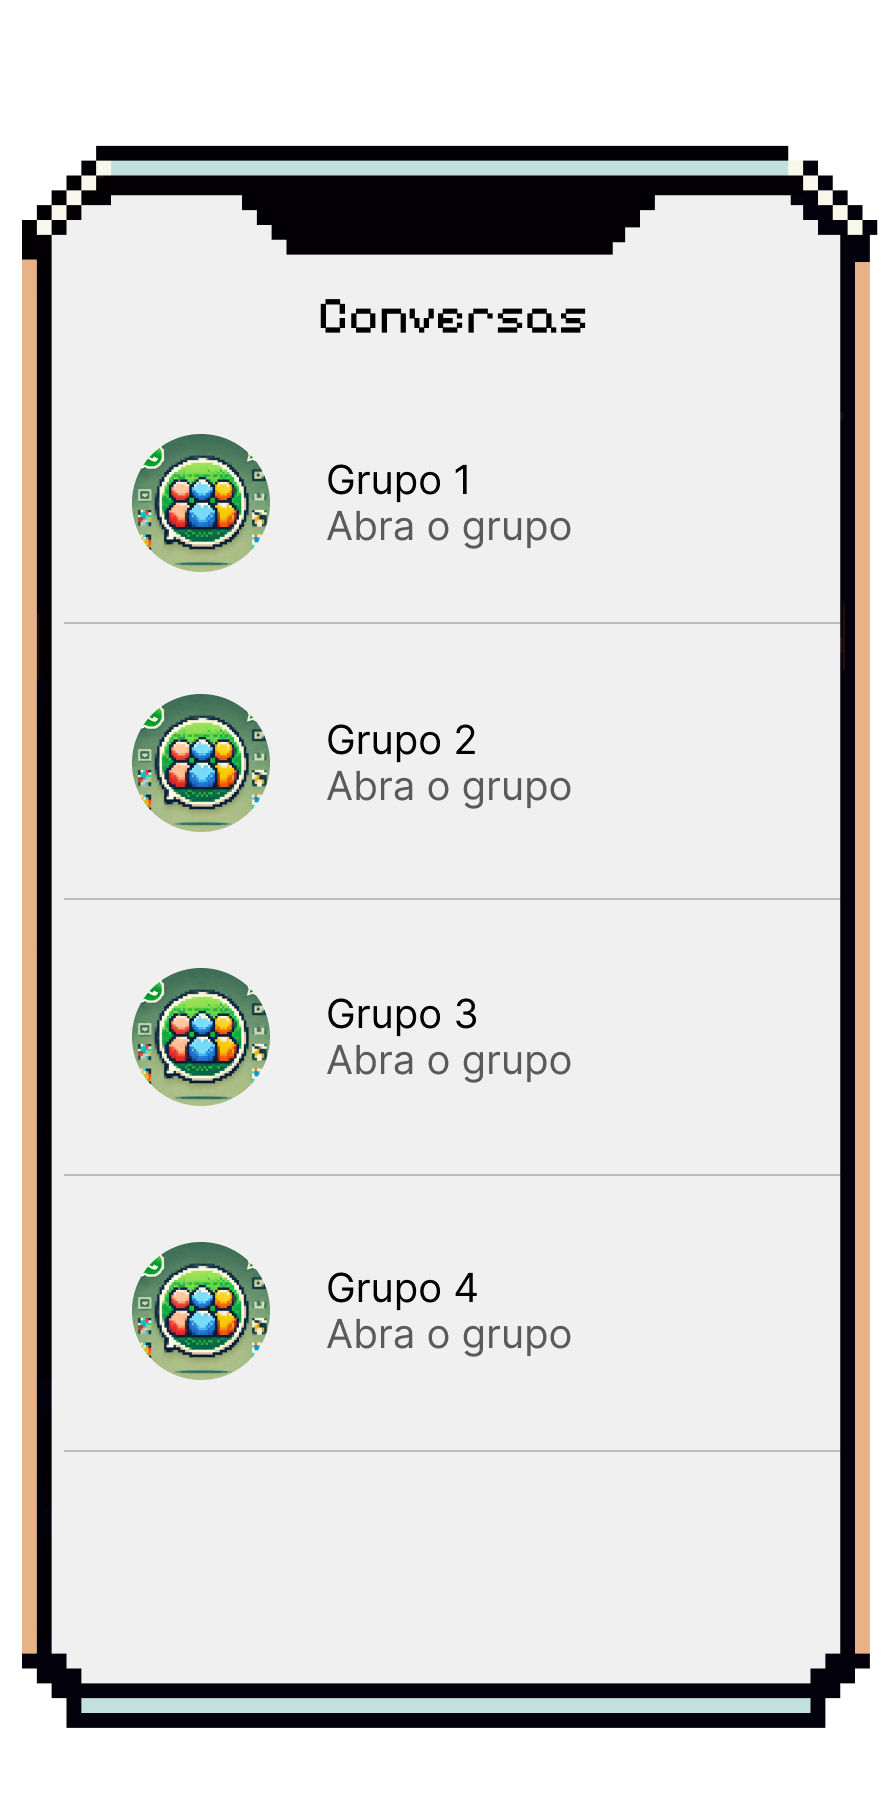
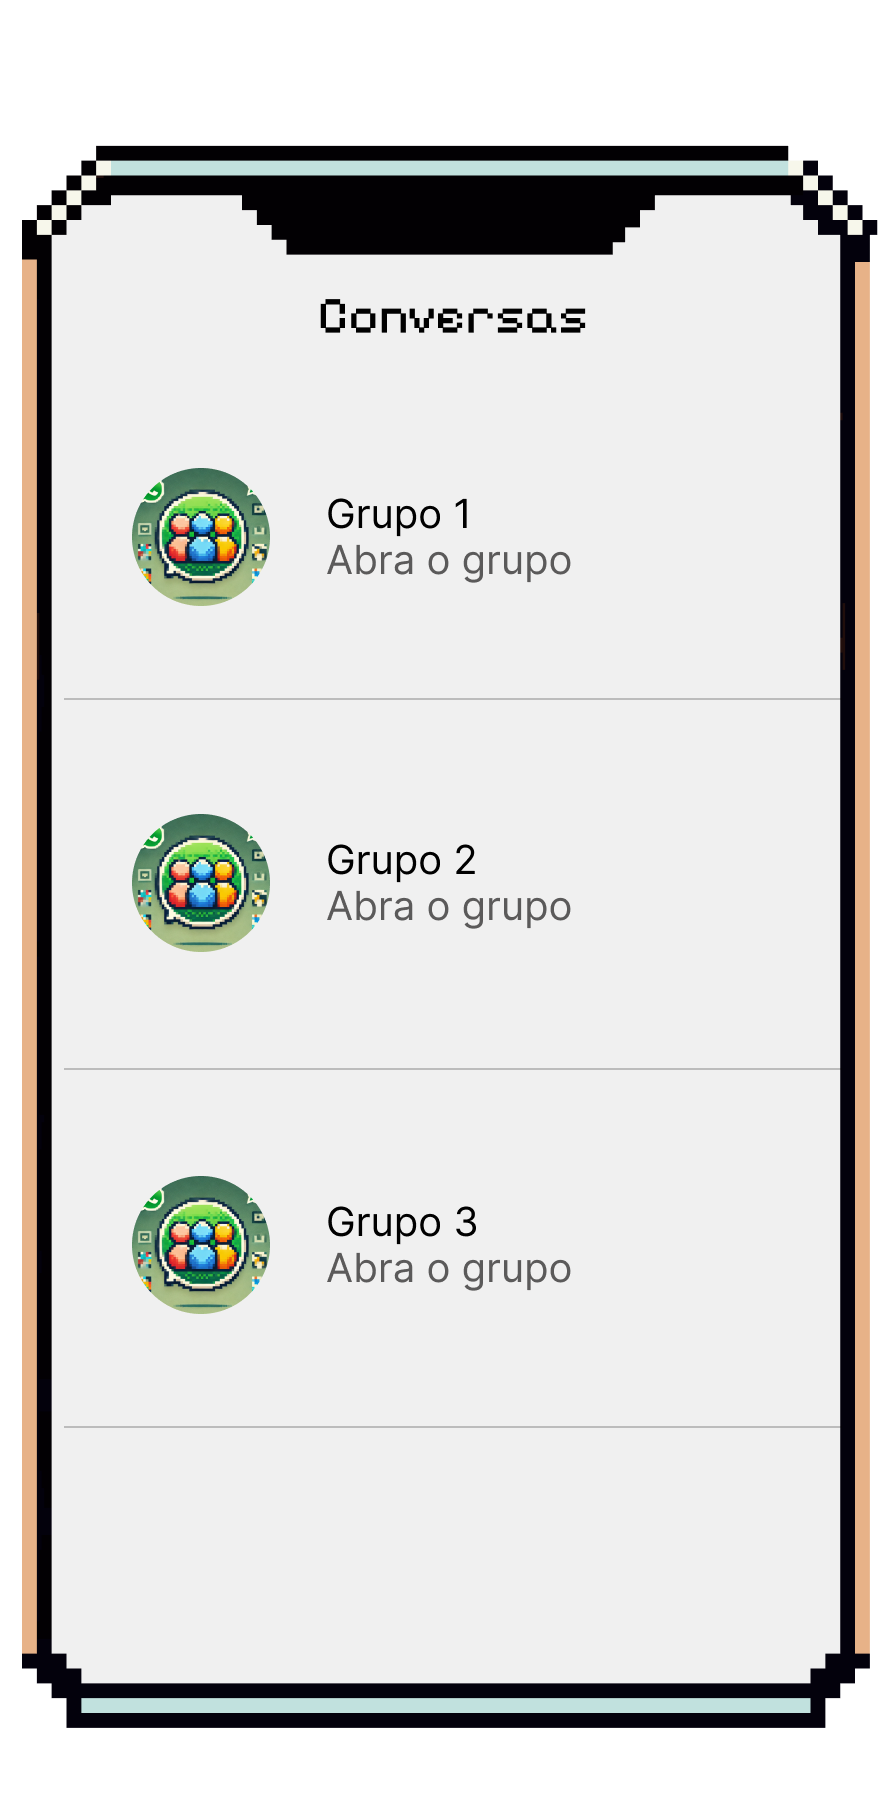
mudei algumas coisas relacionadas aos grupos

diff --git a/src/cenas/mini-games/celular/InterfaceCelular.js b/src/cenas/mini-games/celular/InterfaceCelular.js
@@ -1,42 +1,32 @@
-// ./src/cenas/mini-games/celular/InterfaceCelular.js
-
 export default class InterfaceCelular extends Phaser.Scene {
+  static mensagensDeletadas = new Set();
+  static gruposDeletados = new Set();
+
   constructor() {
     super({ key: "InterfaceCelular" });
   }
 
   preload() {
-    this.load.image(
-      "fundominigame2",
-      "assets/imagens/cenarios/fundominigame2.png"
-    ); // Fundo
-    this.load.image(
-      "celularmensagens",
-      "assets/imagens/celular/celularmensagens.png"
-    ); // Imagem do celular
-    this.load.image("deletargrupo", "assets/imagens/celular/deletargrupo.png"); // Imagem do botão
-    this.load.image(
-      "mensagem_claudia",
-      "assets/imagens/celular/mensagem_claudia.png"
-    ); // Imagem da mensagem da Claudia
-    this.load.image(
-      "mensagem_joao",
-      "assets/imagens/celular/mensagem_joao.png"
-    ); // Imagem da mensagem do João
-    this.load.image("mensagem_ana", "assets/imagens/celular/mensagem_ana.png"); // Imagem da mensagem da Ana
-    this.load.image(
-      "mensagem_pedro",
-      "assets/imagens/celular/mensagem_pedro.png"
-    ); // Imagem da mensagem do Pedro
-    this.load.image(
-      "excluir_mensagem",
-      "assets/imagens/celular/excluir_mensagem.png"
-    ); // Ícone de exclusão ao lado das mensagens
+    this.load.image("fundominigame2", "assets/imagens/cenarios/fundominigame2.png");
+    this.load.image("celularmensagens", "assets/imagens/celular/celularmensagens.png");
+    this.load.image("deletargrupo", "assets/imagens/celular/deletargrupo.png");
+    this.load.image("mensagem_claudia", "assets/imagens/celular/mensagem_claudia.png");
+    this.load.image("mensagem_joao", "assets/imagens/celular/mensagem_joao.png");
+    this.load.image("mensagem_ana", "assets/imagens/celular/mensagem_ana.png");
+    this.load.image("mensagem_pedro", "assets/imagens/celular/mensagem_pedro.png");
+    this.load.image("excluir_mensagem", "assets/imagens/celular/excluir_mensagem.png");
+    this.load.image("feedback_correto", "assets/imagens/feedback/correto.png");
+    this.load.image("feedback_incorreto", "assets/imagens/feedback/incorreto.png");
+    this.load.font("rainyhearts", "assets/fontes/rainyhearts.ttf");
+  }
+
+  init(data) {
+    this.grupoAtual = data.grupo; // Recebe o grupo clicado da cena anterior
   }
 
   create() {
-    this.atualizarCena(); // Configura a cena
-    this.scale.on("resize", this.atualizarCena, this); // Adapta elementos ao redimensionar tela
+    this.atualizarCena();
+    this.scale.on("resize", this.atualizarCena, this);
   }
 
   atualizarCena() {
@@ -45,47 +35,23 @@ export default class InterfaceCelular extends Phaser.Scene {
     const centerX = largura / 2;
     const centerY = altura / 2;
 
-    // Fundo responsivo
     if (this.fundo) this.fundo.destroy();
     this.fundo = this.add
       .image(centerX, centerY, "fundominigame2")
       .setOrigin(0.5)
       .setDisplaySize(largura, altura);
 
-    // Celular no centro da tela
     if (this.celular) this.celular.destroy();
     this.celular = this.add
       .image(centerX, centerY, "celularmensagens")
       .setOrigin(0.5)
       .setScale(Math.min(largura, altura) * 0.00053);
 
-    // Função para criar mensagens e botões de exclusão
-    this.criarMensagem(
-      centerX,
-      centerY - altura * 0.2,
-      "mensagem_claudia",
-      "eoxisClaud"
-    );
-    this.criarMensagem(
-      centerX,
-      centerY - altura * 0.057,
-      "mensagem_joao",
-      "eoxisJoao"
-    );
-    this.criarMensagem(
-      centerX,
-      centerY + altura * 0.08,
-      "mensagem_ana",
-      "eoxisAna"
-    );
-    this.criarMensagem(
-      centerX,
-      centerY + altura * 0.222,
-      "mensagem_pedro",
-      "eoxisPedro"
-    );
+    this.criarMensagem(centerX, centerY - altura * 0.2, "mensagem_claudia", "eoxisClaud");
+    this.criarMensagem(centerX, centerY - altura * 0.057, "mensagem_joao", "eoxisJoao");
+    this.criarMensagem(centerX, centerY + altura * 0.08, "mensagem_ana", "eoxisAna");
+    this.criarMensagem(centerX, centerY + altura * 0.222, "mensagem_pedro", "eoxisPedro");
 
-    // Botão "deletargrupo" mais para cima e responsivo
     if (this.deletarBotao) this.deletarBotao.destroy();
     this.deletarBotao = this.add
       .image(centerX * 1.13, centerY - altura * 0.31, "deletargrupo")
@@ -93,7 +59,8 @@ export default class InterfaceCelular extends Phaser.Scene {
       .setScale(Math.min(largura, altura) * 0.00061)
       .setInteractive()
       .on("pointerdown", () => {
-        console.log("Botão de deletar grupo clicado!");
+        InterfaceCelular.gruposDeletados.add(this.grupoAtual); // Marca grupo como deletado
+        this.scene.start("JogoCelular");
       });
   }
 
@@ -101,24 +68,59 @@ export default class InterfaceCelular extends Phaser.Scene {
     const largura = this.cameras.main.width;
     const altura = this.cameras.main.height;
 
+    if (InterfaceCelular.mensagensDeletadas.has(eoxisKey)) return;
+
     let mensagem = this.add
       .image(centerX - largura * 0.025, posY, mensagemKey)
       .setOrigin(0.5)
       .setScale(Math.min(largura, altura) * 0.00053);
 
     let eoxis = this.add
-      .image(
-        centerX + largura * 0.053,
-        posY + altura * 0.01,
-        "excluir_mensagem"
-      )
+      .image(centerX + largura * 0.053, posY + altura * 0.01, "excluir_mensagem")
       .setOrigin(0.5)
       .setScale(Math.min(largura, altura) * 0.0014)
       .setInteractive()
       .on("pointerdown", () => {
         mensagem.destroy();
         eoxis.destroy();
+
+        InterfaceCelular.mensagensDeletadas.add(eoxisKey);
+
+        const mensagemCorreta = eoxisKey === "eoxisPedro";
+        this.mostrarFeedback(mensagemCorreta);
       });
   }
-}
 
+  mostrarFeedback(isCorreto) {
+    const largura = this.cameras.main.width;
+    const altura = this.cameras.main.height;
+    const centerX = largura / 2;
+    const centerY = altura / 2;
+
+    const feedbackKey = isCorreto ? "feedback_correto" : "feedback_incorreto";
+    const mensagemTexto = isCorreto
+      ? "Boa! Essa mensagem possuia pedido de CPF, e por serem menores de idade, devem pedir autorização aos pais ou responsáveis."
+      : "Ops! Essa não era uma mensagem sensivel, então não precisava ser excluida.";
+
+    const feedback = this.add
+      .image(centerX, centerY, feedbackKey)
+      .setOrigin(0.5)
+      .setScale(Math.min(largura, altura) * 0.00051);
+
+    const texto = this.add
+      .text(centerX, centerY + altura * 0.12, mensagemTexto, {
+        fontSize: `${Math.min(largura, altura) * 0.035}px`,
+        fill: "#ffffff",
+        fontFamily: "rainyhearts",
+        align: "center",
+        wordWrap: { width: largura * 0.34 },
+      })
+      .setOrigin(0.5)
+      .setDepth(10);
+
+    this.time.delayedCall(5670, () => {
+      feedback.destroy();
+      texto.destroy();
+    });
+  }
+}

diff --git a/src/cenas/mini-games/celular/JogoCelular.js b/src/cenas/mini-games/celular/JogoCelular.js
@@ -1,4 +1,4 @@
-// ./src/cenas/mini-games/celular/JogoCelular.js
+import InterfaceCelular from "./InterfaceCelular.js";
 
 export default class JogoCelular extends Phaser.Scene {
   constructor() {
@@ -6,46 +6,24 @@ export default class JogoCelular extends Phaser.Scene {
   }
 
   preload() {
-    this.load.image(
-      "fundominigame2",
-      "assets/imagens/cenarios/fundominigame2.png"
-    );
-    this.load.image(
-      "celulargrupos",
-      "assets/imagens/celular/celulargrupos.png"
-    );
-    this.load.image(
-      "setaentrargrupo",
-      "assets/imagens/celular/setaentrargrupo.png"
-    );
+    this.load.image("fundominigame2", "assets/imagens/cenarios/fundominigame2.png");
+    this.load.image("celulargrupos", "assets/imagens/celular/celulargrupos.png");
+    this.load.image("setaentrargrupo", "assets/imagens/celular/setaentrargrupo.png");
   }
 
   create() {
-    this.atualizarCena(); // Configura a cena
-    this.scale.on("resize", this.atualizarCena, this); // Adapta elementos ao redimensionar tela
+    this.atualizarCena();
+    this.scale.on("resize", this.atualizarCena, this);
+  }
 
-    // Tornando as setas interativas
-    this.seta.setInteractive(); // Tornar a primeira seta clicável
-    this.seta.on("pointerdown", () => {
-      this.scene.start("InterfaceCelular"); // Atualizado para o novo nome da cena
-    });
-
-    // Interatividade para a segunda seta
-    this.seta2.setInteractive(); // Tornar a segunda seta clicável
-    this.seta2.on("pointerdown", () => {
-      console.log("Segunda seta clicada!"); // Você pode adicionar ações aqui
-    });
-
-    // Interatividade para a terceira seta
-    this.seta3.setInteractive(); // Tornar a terceira seta clicável
-    this.seta3.on("pointerdown", () => {
-      console.log("Terceira seta clicada!"); // Você pode adicionar ações aqui
-    });
-
-    // Interatividade para a quarta seta
-    this.seta4.setInteractive(); // Tornar a quarta seta clicável
-    this.seta4.on("pointerdown", () => {
-      console.log("Quarta seta clicada!"); // Você pode adicionar ações aqui
+  criarAnimacaoPulo(seta) {
+    this.tweens.add({
+      targets: seta,
+      y: seta.y - 10,
+      duration: 500,
+      yoyo: true,
+      repeat: -1,
+      ease: "Sine.easeInOut",
     });
   }
 
@@ -55,61 +33,58 @@ export default class JogoCelular extends Phaser.Scene {
     const centerX = largura / 2;
     const centerY = altura / 2;
 
-    // Fundo responsivo
     if (this.fundo) this.fundo.destroy();
     this.fundo = this.add
       .image(centerX, centerY, "fundominigame2")
       .setOrigin(0.5)
       .setDisplaySize(largura, altura);
 
-    // Celular no centro (tamanho reduzido)
     if (this.celular) this.celular.destroy();
     this.celular = this.add
       .image(centerX, centerY, "celulargrupos")
       .setOrigin(0.5)
       .setScale(Math.min(largura, altura) * 0.00053);
 
-    // Seta sobre o celular (ajustada ainda mais para cima)
+    // SETA 1 - grupo1
     if (this.seta) this.seta.destroy();
-    this.seta = this.add
-      .image(
-        centerX + largura * 0.07,
-        centerY - altura * 0.2,
-        "setaentrargrupo"
-      ) // Movida mais para a direita
-      .setOrigin(0.5)
-      .setScale(Math.min(largura, altura) * 0.0014);
+    if (!InterfaceCelular.gruposDeletados.has("grupo1")) {
+      this.seta = this.add
+        .image(centerX + largura * 0.07, centerY - altura * 0.2, "setaentrargrupo")
+        .setOrigin(0.5)
+        .setScale(Math.min(largura, altura) * 0.0014)
+        .setInteractive()
+        .on("pointerdown", () => {
+          this.scene.start("InterfaceCelular", { grupo: "grupo1" });
+        });
+      this.criarAnimacaoPulo(this.seta);
+    }
 
-    // Outras setas
+    // SETA 2 - grupo2
     if (this.seta2) this.seta2.destroy();
-    this.seta2 = this.add
-      .image(
-        centerX + largura * 0.07,
-        centerY - altura * 0.061,
-        "setaentrargrupo"
-      ) // Segunda seta
-      .setOrigin(0.5)
-      .setScale(Math.min(largura, altura) * 0.0014);
+    if (!InterfaceCelular.gruposDeletados.has("grupo2")) {
+      this.seta2 = this.add
+        .image(centerX + largura * 0.07, centerY - altura * 0.01, "setaentrargrupo")
+        .setOrigin(0.5)
+        .setScale(Math.min(largura, altura) * 0.0014)
+        .setInteractive()
+        .on("pointerdown", () => {
+          this.scene.start("InterfaceCelular", { grupo: "grupo2" });
+        });
+      this.criarAnimacaoPulo(this.seta2);
+    }
 
+    // SETA 3 - grupo3
     if (this.seta3) this.seta3.destroy();
-    this.seta3 = this.add
-      .image(
-        centerX + largura * 0.07,
-        centerY + altura * 0.081,
-        "setaentrargrupo"
-      ) // Terceira seta movida mais para baixo
-      .setOrigin(0.5)
-      .setScale(Math.min(largura, altura) * 0.0014);
-
-    if (this.seta4) this.seta4.destroy();
-    this.seta4 = this.add
-      .image(
-        centerX + largura * 0.07,
-        centerY + altura * 0.23,
-        "setaentrargrupo"
-      ) // Quarta seta
-      .setOrigin(0.5)
-      .setScale(Math.min(largura, altura) * 0.0014);
+    if (!InterfaceCelular.gruposDeletados.has("grupo3")) {
+      this.seta3 = this.add
+        .image(centerX + largura * 0.07, centerY + altura * 0.19, "setaentrargrupo")
+        .setOrigin(0.5)
+        .setScale(Math.min(largura, altura) * 0.0014)
+        .setInteractive()
+        .on("pointerdown", () => {
+          this.scene.start("InterfaceCelular", { grupo: "grupo3" });
+        });
+      this.criarAnimacaoPulo(this.seta3);
+    }
   }
 }
-

diff --git a/src/config.js b/src/config.js
@@ -19,8 +19,8 @@ const config = {
   height: window.innerHeight,
   backgroundColor: "#000000",
   scene: [
-  InterfaceCelular,
   JogoCelular,
+  InterfaceCelular,
    
   ],
   scale: {
